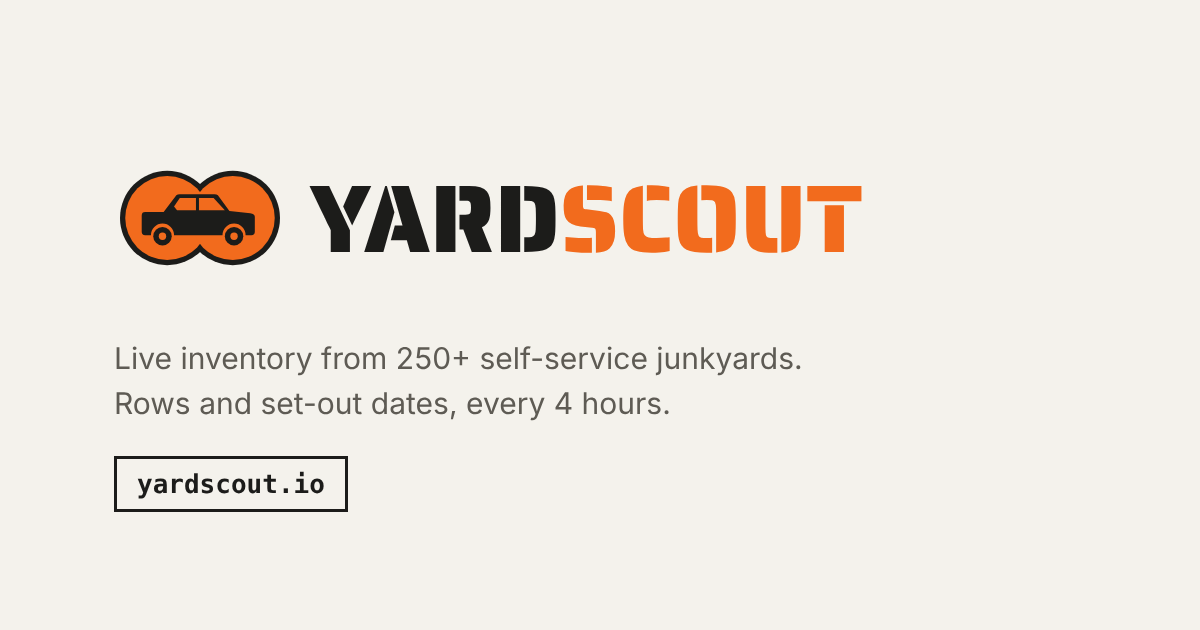
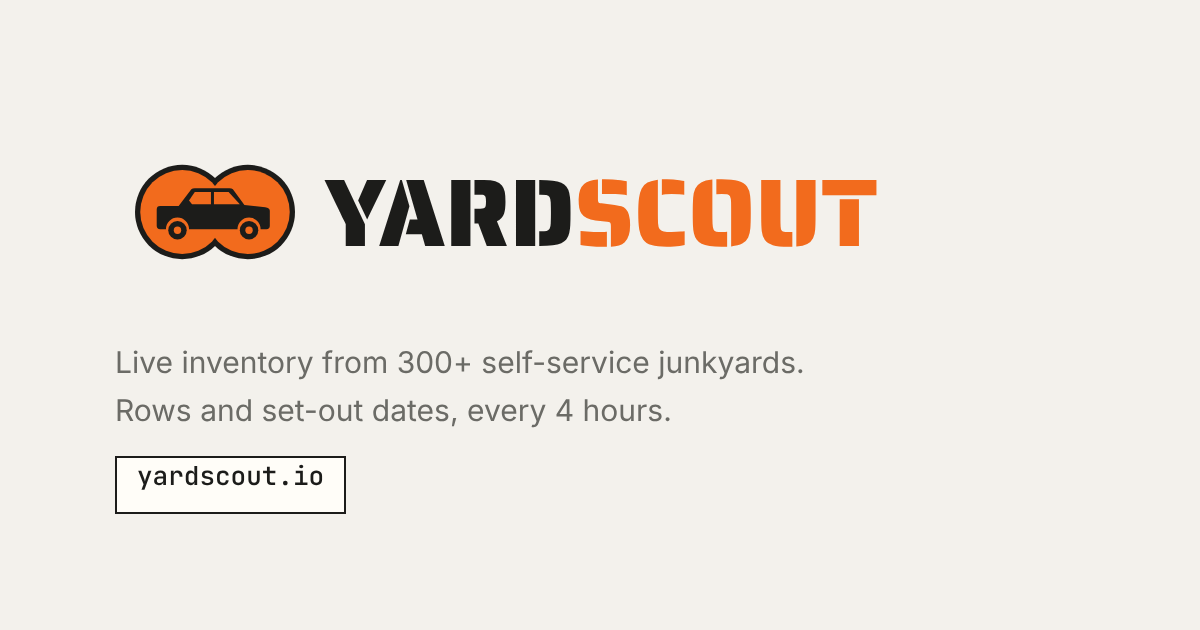
Share card says 300+ junkyards (308 tracked); card source kept in docs/brand
The Facebook/Twitter preview image still read "250+ self-service
junkyards" while the store listings say 300+. Re-rendered from the brand
lockup with the same layout; docs/brand/og-card.html is the editable
source. The og:image URL gains ?v=2 so scrapers fetch the new picture
instead of their cached copy.

Claude-Session: https://claude.ai/code/session_01LsgNuWEh1vdaDCtdP1jxMM

Changed region(s): [[0.0925, 0.2413, 0.74, 0.4222], [0.0925, 0.5429, 0.6783, 0.6937], [0.0925, 0.7238, 0.3083, 0.8143]]

diff --git a/docs/brand/og-card.html b/docs/brand/og-card.html
@@ -1,0 +1,17 @@
+<!-- Source of docs/og-card.png (the 1200x630 share card). To regenerate after a copy change:
+     open this file in Chromium at a 1200x630 viewport and screenshot it (Playwright: page.screenshot).
+     Fonts load from Google Fonts; the lockup is docs/brand/yardscout-lockup-light.svg inlined. -->
+<!doctype html><html><head><meta charset="utf-8">
+<link href="https://fonts.googleapis.com/css2?family=Inter:wght@400;500&family=Saira+Stencil+One&family=JetBrains+Mono:wght@500&display=swap" rel="stylesheet">
+<style>
+  html,body{margin:0;width:1200px;height:630px;background:#F3F1EC;overflow:hidden}
+  .wrap{position:absolute;left:115px;top:0;width:1000px;height:630px}
+  .lockup{position:absolute;left:-10px;top:112px;width:940px;height:200px} .lockup .w{font-family:'Saira Stencil One',sans-serif;font-size:96px}
+  .tag{position:absolute;left:0;top:338px;font:400 30px/48px Inter,system-ui,sans-serif;color:#6B6B66;white-space:nowrap}
+  .url{position:absolute;left:0;top:456px;padding:0 20px;height:54px;line-height:54px;border:2px solid #1C1C1A;background:#FFFDF8;
+       font:500 26px 'JetBrains Mono',ui-monospace,Menlo,monospace;color:#1C1C1A}
+</style></head><body><div class="wrap">
+  <svg class="lockup" xmlns="http://www.w3.org/2000/svg" width="940" height="200" viewBox="0 0 940 200"><g transform="translate(24.754 14.754) scale(1.31148)"><g fill="#1C1C1A"><circle cx="40" cy="65" r="36"/><circle cx="90" cy="65" r="36"/></g><g fill="#F26B1D"><circle cx="40" cy="65" r="32"/><circle cx="90" cy="65" r="32"/></g><g transform="translate(65 64) scale(0.88) translate(-66.5 -63)"><path d="M16 76 V62 Q16 59 19 59 H35 L46 44.5 Q47 43.5 49 43.5 H79 Q81 43.5 82 44.5 L92 58 L110 60 Q114 60.5 114 63 V76 Q114 79 111 79 H106 A10 10 0 0 0 86 79 H44 A10 10 0 0 0 24 79 H19 Q16 79 16 76 Z" fill="#1C1C1A"/><path d="M49 46.8 H78.3 L88 57.4 H46.6 L44 54.2 Z" fill="#F26B1D"/><g fill="#1C1C1A"><rect x="63" y="46" width="2.6" height="12"/></g><g fill="#1C1C1A"><circle cx="34" cy="80" r="8"/><circle cx="96" cy="80" r="8"/></g><g fill="#F26B1D"><circle cx="34" cy="80" r="3.2"/><circle cx="96" cy="80" r="3.2"/></g></g></g><text class="w" x="220" y="134" fill="#1C1C1A">YARD<tspan fill="#F26B1D">SCOUT</tspan></text></svg>
+  <div class="tag">Live inventory from 300+ self-service junkyards.<br>Rows and set-out dates, every 4 hours.</div>
+  <div class="url">yardscout.io</div>
+</div></body></html>

diff --git a/docs/index.html b/docs/index.html
@@ -20,13 +20,13 @@
 <meta property="og:title" content="YardScout — live junkyard inventory">
 <meta property="og:description" content="Live inventory from every major self-service yard, with each yard's own price list. See what's in the yards near you before you drive.">
 <meta property="og:url" content="https://yardscout.io/">
-<meta property="og:image" content="https://yardscout.io/og-card.png">
+<meta property="og:image" content="https://yardscout.io/og-card.png?v=2">
 <meta property="og:image:width" content="1200">
 <meta property="og:image:height" content="630">
 <meta name="twitter:card" content="summary_large_image">
 <meta name="twitter:title" content="YardScout — live junkyard inventory">
 <meta name="twitter:description" content="Live inventory from every major self-service yard, with each yard's own price list.">
-<meta name="twitter:image" content="https://yardscout.io/og-card.png">
+<meta name="twitter:image" content="https://yardscout.io/og-card.png?v=2">
 <link rel="icon" href="favicon.ico?v=3" sizes="any">
 <link rel="icon" type="image/png" sizes="32x32" href="favicon-32.png?v=3">
 <link rel="icon" type="image/png" sizes="192x192" href="icon-192.png?v=3">

diff --git a/backend/site-proxy/src/share.js b/backend/site-proxy/src/share.js
@@ -18,7 +18,7 @@ const API = 'https://yardscout-api.yardscout.workers.dev';
 const SITE = 'https://yardscout.io';
 export const IOS_URL = 'https://apps.apple.com/app/yardscout-junkyard-parts/id6817126581';
 export const PLAY_URL = 'https://play.google.com/store/apps/details?id=io.yardscout.app';
-const OG_IMAGE = SITE + '/og-card.png';
+const OG_IMAGE = SITE + '/og-card.png?v=2';
 
 const esc = (s) => String(s ?? '').replace(/[&<>"']/g, (c) => (
   { '&': '&amp;', '<': '&lt;', '>': '&gt;', '"': '&quot;', "'": '&#39;' }[c]
